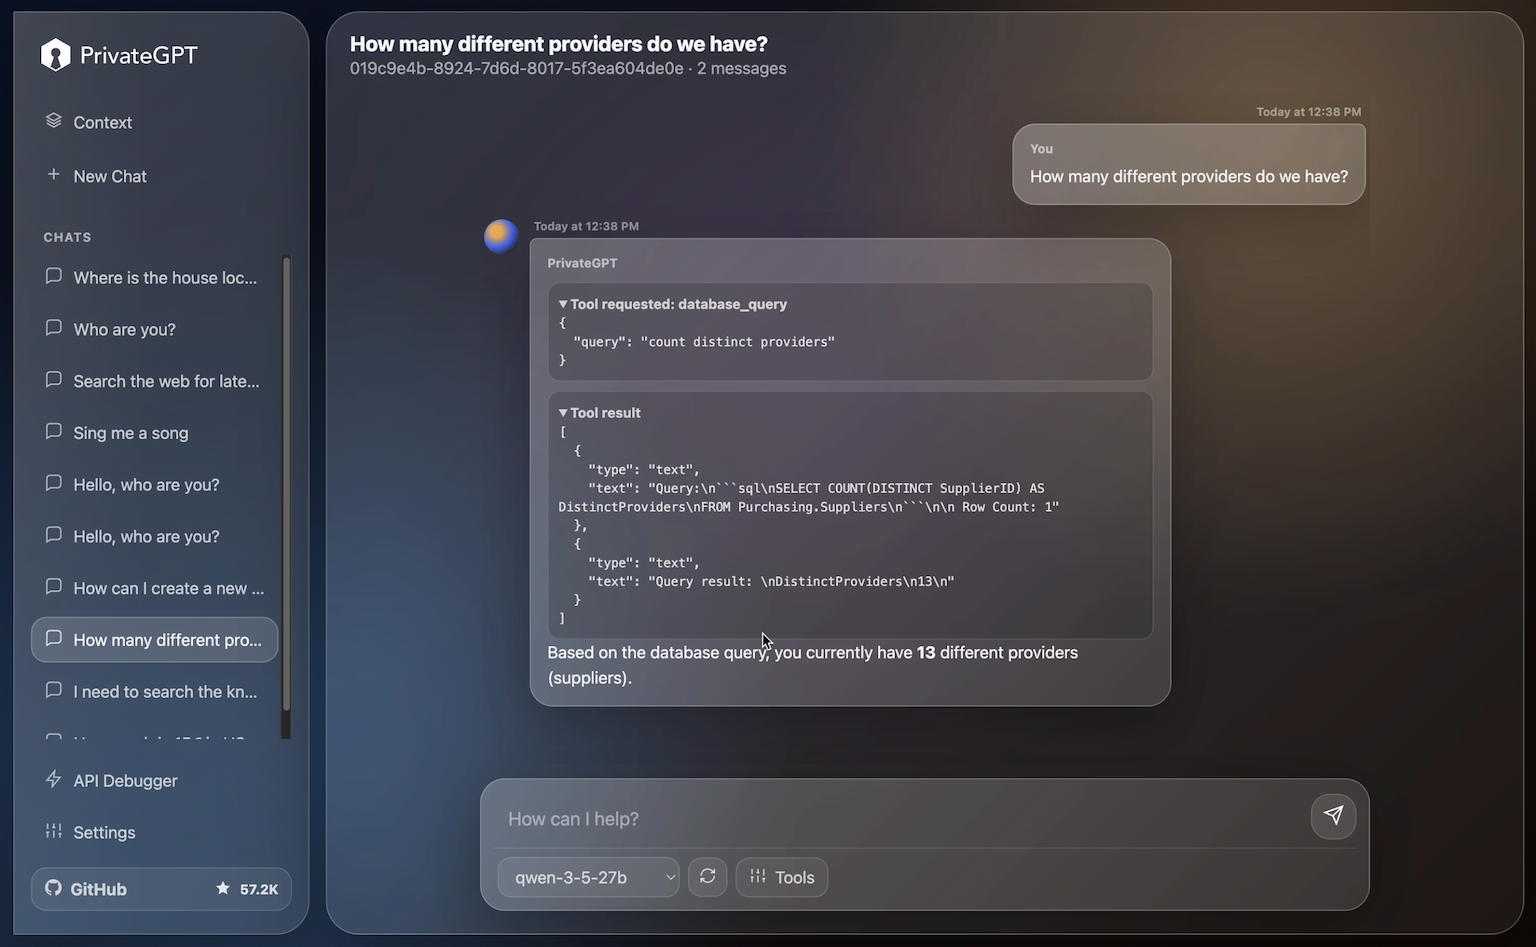
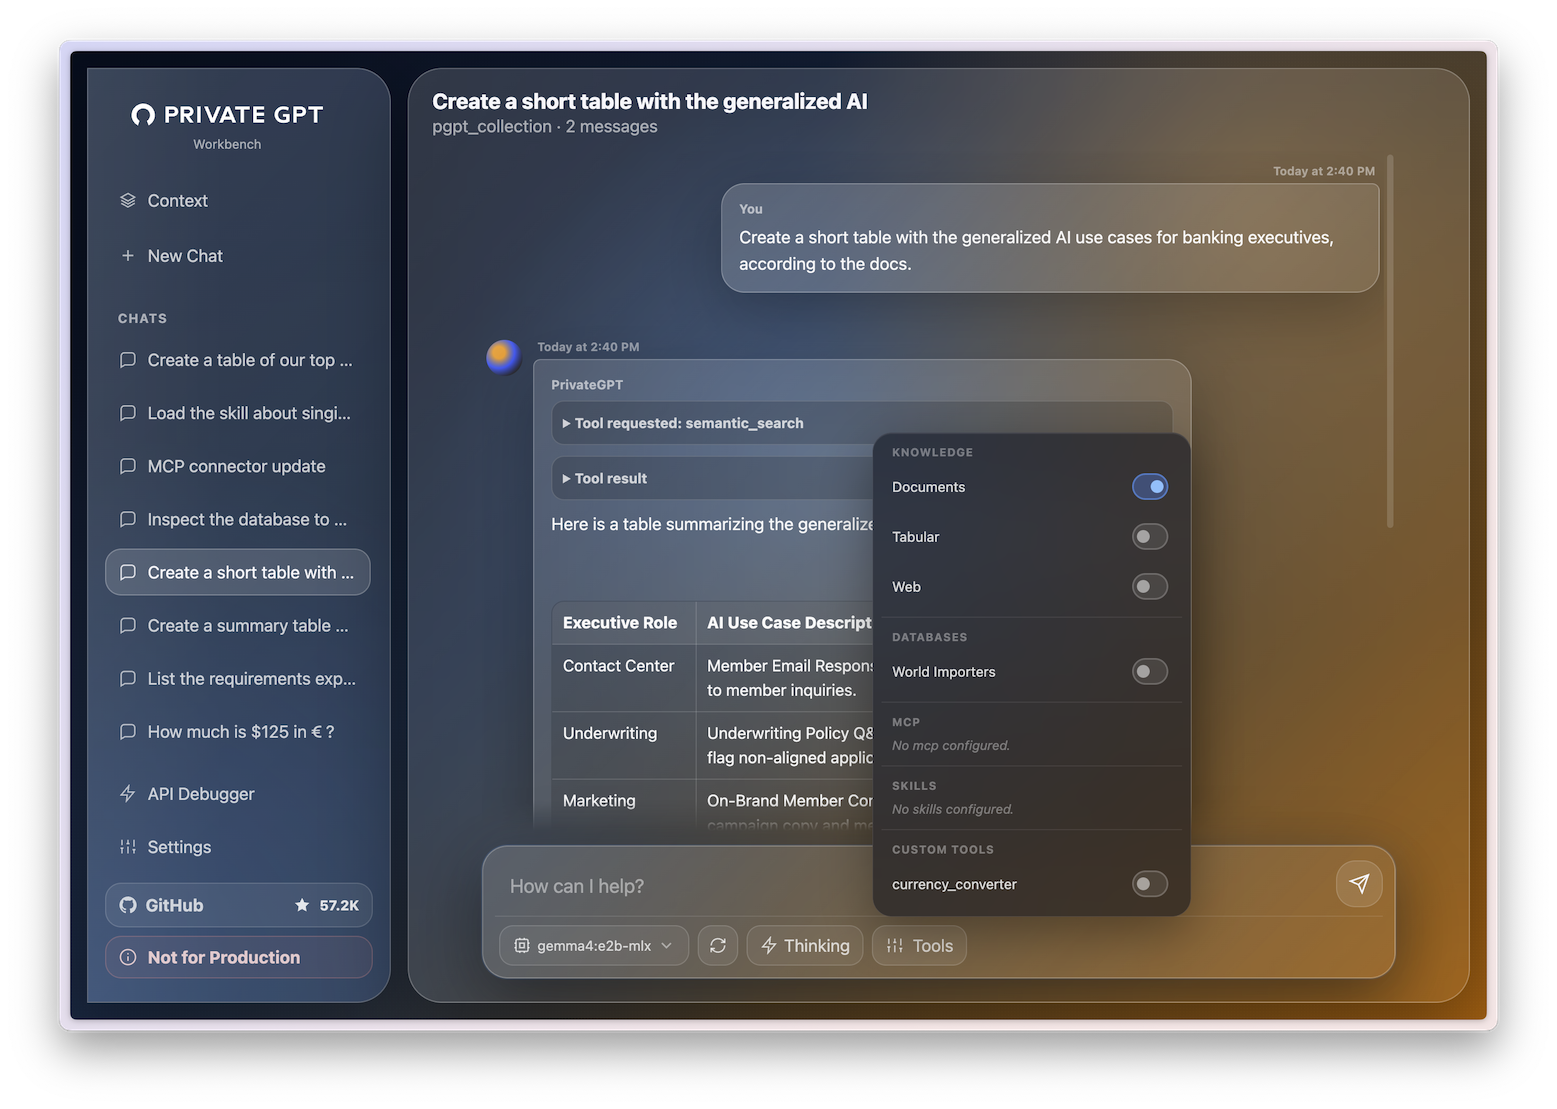
Main README update

Pull request: chore: main README update
# Description

README content update

diff --git a/README.md b/README.md
@@ -1,135 +1,161 @@
-# PrivateGPT
+![Banner image](./fern/docs/assets/privategpt_banner.png)
 
-<a href="https://trendshift.io/repositories/8691" target="_blank"><img src="https://trendshift.io/api/badge/repositories/8691" alt="zylon-ai%2Fprivate-gpt | Trendshift" style="width: 250px; height: 55px;" width="250" height="55"/></a>
+<div align="center">
+
+**PrivateGPT is the open-source API layer that turns local models into production AI applications.**
 
 [![Tests](https://github.com/zylon-ai/private-gpt/actions/workflows/tests.yml/badge.svg)](https://github.com/zylon-ai/private-gpt/actions/workflows/tests.yml?query=branch%3Amain)
 [![Website](https://img.shields.io/website?up_message=check%20it&down_message=down&url=https%3A%2F%2Fdocs.privategpt.dev%2F&label=Documentation)](https://docs.privategpt.dev/)
 [![Discord](https://img.shields.io/discord/1164200432894234644?logo=discord&label=PrivateGPT)](https://discord.gg/F8KCFeZbkx)
 [![X (formerly Twitter) Follow](https://img.shields.io/twitter/follow/ZylonPrivateGPT)](https://twitter.com/ZylonPrivateGPT)
 
-**PrivateGPT is the open-source Claude API-compatible layer for building private AI applications on top of any local or self-hosted model server.**
+<a href="https://trendshift.io/repositories/8691" target="_blank"><img src="https://trendshift.io/api/badge/repositories/8691" alt="zylon-ai%2Fprivate-gpt | Trendshift" style="width: 250px; height: 55px;" width="250" height="55"/></a>
 
-PrivateGPT turns local inference into a real application backend. It sits above any OpenAI-compatible model server and provides the higher-level capabilities modern AI products need: messages, model selection, file ingestion, retrieval with citations, tool use, database querying, CSV and tabular analysis, web search and extraction, MCP, skills, code execution, custom tools, token counting, embeddings, and async workflows.
+</div>
 
-The goal: bring the Claude-style application API to your own infrastructure, so developers can build private AI products without depending on cloud AI APIs.
+---
 
-## Why PrivateGPT?
+Running a model locally is only the first step. To build useful AI applications you need a set of higher-level building blocks. PrivateGPT provides that layer as an open-source API following the Claude API model — so you can build private AI products without rebuilding the same backend primitives from scratch, and without depending on cloud APIs.
 
-Running a model locally is only the first layer.
+Production-tested: [PrivateGPT powers Zylon](#privategpt-vs-zylon), the on-premise AI platform providing Private AI to enterprises across the globe.
 
-To build useful AI applications you need a set of high-level building blocks.
-PrivateGPT provides that layer as an open-source API, so you don't need to reinvent the wheel.
-
-- A standard messages API.
-- Files and artifact ingestion.
-- Retrieval with citations.
-- Built-in tools, mapping those offered by Claude API.
-- Custom tools support.
-- MCP connectors.
-- Structured access to databases and CSVs.
-- Web search and extraction.
-- Token counting, embeddings, and orchestration.
-
-PrivateGPT sits between your business logic and your inference server.
 
 ```text
 Your app / agent / workflow / UI
               |
         PrivateGPT API
               |
- OpenAI-compatible inference server
-              |
- Local or self-hosted models
+OpenAI-compatible inference server (Ollama, llama.cpp, vLLM, …)              
 ```
 
-## PrivateGPT vs Ollama, LM Studio, LocalAI, vLLM, llama.cpp
+> PrivateGPT does **not** run models itself. It connects to any OpenAI-compatible inference server via `OPENAI_API_BASE`. If it implements `/v1/chat/completions` and `/v1/models`, it works.
 
-PrivateGPT does not replace local inference providers. It complements them.
+PrivateGPT ships a built-in workbench UI for testing and demos, available at `/ui`. The API is the actual product.
 
-Projects like Ollama, LM Studio, LocalAI, vLLM, and llama.cpp make it possible to run and serve models locally. They answer the question:
+---
 
-> How do I run a model?
+## What PrivateGPT gives you
 
-PrivateGPT answers the next question:
+- Standard messages API (streaming, async, token counting)
+- File and artifact ingestion
+- Retrieval with citations and agentic RAG
+- Built-in tools mirroring the Claude API (web search, web fetch, code execution)
+- Custom tools and MCP connectors
+- Structured access to databases and CSVs
+- Embeddings and orchestration
 
-> How do I build a useful AI application on top of that model?
+---
 
-PrivateGPT sits above the model server and adds the application API: messages, files, retrieval, citations, tools, data analysis, MCP, skills, and custom tool execution.
+## Quickstart
 
-In short:
+> For Docker, full installation options, and model configuration see the [full Quickstart guide](https://docs.privategpt.dev/getting-started/quickstart).
 
-```text
-Ollama / LM Studio / LocalAI / vLLM / llama.cpp = local inference layer
-PrivateGPT                                      = local AI application API layer
+**Prerequisites:** You need a running OpenAI-compatible LLM server. [Ollama](https://docs.privategpt.dev/providers/ollama) is the easiest starting point.
+
+**1. Install PrivateGPT**
+
+```bash
+# macOS
+brew tap zylon-ai/tap
+brew install private-gpt
 ```
 
-Use both together: run your model with the inference server you prefer, then use PrivateGPT as the Claude-style backend for your application.
+```bash
+# Linux
+curl -LsSf https://astral.sh/uv/install.sh | sh
 
-## PrivateGPT vs Onyx, Open WebUI
-
-Onyx and Open WebUI are valuable projects, but they are solving a different problem.
-
-Onyx is an open-source AI platform focused on chat and enterprise search across organizational knowledge, documents, apps, and people. Open WebUI is a self-hosted AI interface for running and interacting with AI on your own infrastructure. Both are primarily app-first experiences.
-
-PrivateGPT is API-first.
-
-It is not trying to be the final workspace, enterprise search product, or ChatGPT-style interface. Instead, PrivateGPT gives developers the standardized local backend underneath those products: a Claude API-compatible layer for messages, files, retrieval, citations, tools, data analysis, MCP, skills, and custom tools.
-
-Put differently:
-
-```text
-Onyx / Open WebUI = self-hosted AI applications
-PrivateGPT       = API layer for building self-hosted AI applications
+uv tool install --python 3.11 \
+  --find-links https://wheels.privategpt.dev/packages/ \
+  "private-gpt[core]"
 ```
 
-The lightweight UI included with PrivateGPT exists to help you test the API, demonstrate the value quickly, and explore the available capabilities. The API is the actual product.
+```powershell
+# Windows
+powershell -ExecutionPolicy ByPass -c "irm https://astral.sh/uv/install.ps1 | iex"
 
-## A Platform For Developers
+uv tool install --python 3.11 `
+  --find-links https://wheels.privategpt.dev/packages/ `
+  "private-gpt[core]"
+```
 
-PrivateGPT is built for developers who want to create private AI applications without rebuilding the same backend primitives from scratch.
+**2. Start your LLM server**
 
-With PrivateGPT, you can build:
+```bash
+# Example with Ollama
+ollama pull qwen3.5:35b         # LLM (~24 GB)
+ollama pull mxbai-embed-large   # Embeddings (~670 MB)
+ollama serve
+```
 
-- Local document assistants.
-- Internal knowledge-base assistants.
-- Claude-compatible AI features inside existing applications.
-- Agents with built-in and custom tools.
-- Database and CSV analysis workflows.
-- Retrieval systems with citations.
-- MCP-powered local AI systems.
-- AI applications that run inside your own infrastructure.
+**3. Run PrivateGPT**
 
-PrivateGPT is intentionally backend-first. You bring your own UI, product workflow, deployment model, and inference provider.
+```bash
+# macOS / Linux
+OPENAI_API_BASE=http://localhost:<llm-port>/v1 \
+  OPENAI_EMBEDDING_API_BASE=http://localhost:<embedding-port>/v1 \
+  private-gpt serve
+```
 
-## Test The API In The Workbench UI
+```powershell
+# Windows (PowerShell)
+$env:OPENAI_API_BASE = "http://localhost:<llm-port>/v1"
+$env:OPENAI_EMBEDDING_API_BASE = "http://localhost:<embedding-port>/v1"
+private-gpt serve
+```
 
-PrivateGPT includes a lightweight out-of-the-box UI so you can start interacting with the API in minutes.
+**4. Open the UI**
+
+Go to [http://localhost:8080/ui](http://localhost:8080/ui). The API is at `http://localhost:8080` and follows the [Anthropic API](https://docs.privategpt.dev/api-reference/api-reference) spec.
+
+<img src="./fern/docs/assets/ui.png"/>
 
 The UI is useful for:
 
 - Sending messages.
-- Selecting models from `/v1/models`.
+- Selecting models from /v1/models.
 - Uploading documents.
 - Testing retrieval with citations.
 - Enabling tools per chat.
 - Configuring databases, MCP connectors, skills, and custom tools.
-- Inspecting requests and responses through the API Debugger.
+- Inspecting requests and responses through the API Debugger. 
 
 This UI is a demonstrator, not the core product. Developers are expected to build their own applications on top of the API. That said, the UI is intentionally polished enough for demos, videos, internal pilots, and quick local usage.
 
-The current UI lives in:
+---
 
-```text
-./ui/index.html
-```
+## Integrations
 
-## PrivateGPT vs Claude API Status
+| | | |
+|:-------------------------:|:-------------------------:|:-------------------------:|
+|[![claude cowork](./fern/docs/assets/claude_cowork_privategpt.png)](./fern/docs/assets/claude_cowork_privategpt.png)<br/>**Claude Desktop / Cowork**|[![ms excel claude](./fern/docs/assets/ms_excel_claude_privategpt.png)](./fern/docs/assets/ms_excel_claude_privategpt.png)<br/>**Microsoft Excel Claude add-in**|[![ms word claude](./fern/docs/assets/ms_word_claude_privategpt.png)](./fern/docs/assets/ms_word_claude_privategpt.png)<br/>**Microsoft Word Claude add-in**|
+|[![n8n](./fern/docs/assets/n8n_privategpt.png)](./fern/docs/assets/n8n_privategpt.png)<br/>**n8n**|[![opencode](./fern/docs/assets/opencode_privategpt.png)](./fern/docs/assets/opencode_privategpt.png)<br/>**OpenCode**|[![privategpt workbench](./fern/docs/assets/privategpt_workbench.png)](./fern/docs/assets/privategpt_workbench.png)<br/>**PrivateGPT Workbench**|
 
-PrivateGPT follows the Claude API model because Claude has become the clearest reference for modern AI application APIs: messages, tools, files, citations, skills, MCP, and structured workflows.
+PrivateGPT works natively as the local backend for the tools developers and end users already use.
 
-The goal is to support Claude API concepts as closely as possible while adapting them to local and self-hosted infrastructure. Some functionality is intentionally exposed through PrivateGPT-specific endpoints where that makes the local implementation clearer, especially around ingestion and artifact management.
+| Integration Guide | What it enables |
+|---|---|
+| **[Claude Code](https://docs.privategpt.dev/integrations/claude-code)** | Use your local models as the backend for agentic coding in the terminal |
+| **[Claude Desktop / Cowork](https://docs.privategpt.dev/integrations/claude-desktop)** | Connect the Claude desktop app and Cowork to your private models |
+| **[Claude for Microsoft 365](https://docs.privategpt.dev/integrations/claude-office)** | Run private AI inside Word, Excel, Outlook, and PowerPoint |
+| **[OpenCode](https://docs.privategpt.dev/integrations/opencode)** | Local AI coding assistant in the terminal |
 
-Compatibility snapshot:
+
+Any tool that works with a local OpenAI-compatible provider will also work with PrivateGPT. The list below is non-exhaustive.
+
+| Tool | Link |
+|---|---|
+| n8n | [n8n.io](https://n8n.io) |
+| OpenClaw | [openclaw.ai](https://openclaw.ai) |
+| Hermes Agent | [hermes-agent.dev](https://hermes-agent.dev) |
+| VS Code | [code.visualstudio.com](https://code.visualstudio.com) |
+| Cline | [cline.bot](https://cline.bot) |
+
+
+---
+
+## Claude API compatibility
+
+PrivateGPT follows the Claude API as the reference for modern AI application APIs. The goal is full coverage where it makes sense for a local, open-source layer.
 
 | Area | Capability | Claude API | PrivateGPT |
 |---|---|:---:|:---:|
@@ -151,48 +177,102 @@ Compatibility snapshot:
 | Data | CSV / tabular analysis | Via tools / code | ✅ built-in |
 | Agents | MCP in the API | ✅ | ✅ |
 | Agents | Remote MCP servers | ✅ | ✅ |
-| Agents | Skills | ✅ | ⚠️ basic |
-| Output | Structured outputs | ✅ | ✅ inference-dependent|
+| Agents | Skills | ✅ | ⚙️ basic |
+| Output | Structured outputs | ✅ | ✅ inference-dependent |
 | Models | Vision | ✅ | ✅ model-dependent |
 | Optimization | Prompt caching | ✅ | ❌ |
 | Reasoning | Extended thinking | ✅ | ✅ |
 | Platform | Token-based auth | ✅ | ✅ |
 | Platform | OAuth / organizations | ✅ | ❌ |
 
-Legend:
+✅ Supported · ⚙️ Partial / in progress · ❌ Not supported
 
-- ✅ Supported.
-- ⚠️ Partially supported, model-dependent, or in active development.
-- ❌ Not currently supported.
+Contributions are especially welcome in ⚙️ areas.
 
-The ambition is full Claude API feature coverage where it makes sense for a local, open-source application layer. Contributions are especially welcome in the areas marked as in progress.
+---
 
-## PrivateGPT vs Zylon.ai
+## Why PrivateGPT? A brief history
 
-PrivateGPT is maintained by the team behind Zylon.ai.
+PrivateGPT started as a proof of concept in 2023: a script that let you chat with your documents, fully offline, with no data leaving your machine. It went viral on GitHub, crossed 50K stars, and became one of the most-watched AI repos of that year.
 
-PrivateGPT is the open-source application API layer.
-Zylon is the complete, enterprise-ready on-prem AI platform built around it.
+That early version made one thing clear: there was serious demand for private, local AI that worked without cloud dependencies.
 
-PrivateGPT gives developers the Claude API-compatible backend primitives: messages, ingestion, tools, retrieval, citations, database access, tabular analysis, MCP, skills, and custom tools.
+PrivateGPT 1.0 is the evolution of that idea — rebuilt from the ground up as a proper API layer for private AI applications. 
 
-Zylon turns that layer into a complete production platform for regulated organizations. It adds the pieces enterprises need to deploy and operate private AI at scale:
+<!-- Read the [PrivateGPT 1.0 launch post](https://blog.zylon.ai/privategpt-launch) for context on where it started and why. -->
 
-- Integrated inference server.
-- Kubernetes deployment package.
-- API gateway and developer platform.
-- Workspace application for non-technical end users.
+<a href="https://www.star-history.com/?repos=zylon-ai%2Fprivate-gpt&type=date&legend=top-left">
+ <picture>
+   <source media="(prefers-color-scheme: dark)" srcset="https://api.star-history.com/chart?repos=zylon-ai/private-gpt&type=date&theme=dark&legend=top-left" />
+   <source media="(prefers-color-scheme: light)" srcset="https://api.star-history.com/chart?repos=zylon-ai/private-gpt&type=date&legend=top-left" />
+   <img alt="Star History Chart" src="https://api.star-history.com/chart?repos=zylon-ai/private-gpt&type=date&legend=top-left" />
+ </picture>
+</a>
+
+---
+
+## How PrivateGPT compares
+
+### vs Ollama, LM Studio, LocalAI, vLLM, llama.cpp
+
+These projects make it possible to run and serve models locally. They answer: *how do I run a model?*
+
+PrivateGPT answers the next question: *how do I build a useful AI application on top of that model?*
+
+```text
+Ollama / LM Studio / LocalAI / vLLM / llama.cpp  =  local inference layer
+PrivateGPT                                        =  local AI application API layer
+```
+
+Use them together. Run your model with whichever inference server you prefer, then point PrivateGPT at it.
+
+### vs Onyx, Open WebUI
+
+Both are valuable, but they are app-first experiences focused on chat and enterprise search. PrivateGPT is API-first. It provides the standardized local backend underneath those products — not the final product itself.
+
+```text
+Onyx / Open WebUI  =  self-hosted AI applications
+PrivateGPT         =  API layer for building self-hosted AI applications
+```
+
+---
+
+
+## PrivateGPT vs Zylon
+
+<a href="https://www.zylon.ai/" target="_blank"><img src="./fern/docs/assets/zylon_banner.png"/></a>
+
+PrivateGPT is maintained by the team at [Zylon](https://zylon.ai/).
+
+**PrivateGPT** is the open-source application API layer: messages, ingestion, tools, retrieval, citations, database access, tabular analysis, MCP, skills, and custom tools.
+
+**Zylon** is the end-to-end AI Infrastructure orchestrating the hardware and software layers into a complete production platform for regulated organizations. On top of PrivateGPT, Zylon adds:
+
+- Integrated inference server based on NVIDIA Triton + vLLM to run open-weight models.
+- Concurrency, batch processing and load balancing capabilities to operate at scale.
+- Kubernetes self-contained deployment with 20+ production services packaged and supported.
 - CLI for installation, updates, model selection, and platform configuration.
-- LDAP integration for user management.
-- Telemetry and operational monitoring.
+- API gateway for governance and developer platform.
+- Workspace application for non-technical end users.
+- LDAP/Active Directory integration and RBAC user management.
+- Telemetry, observability and operational monitoring.
 - SIEM audit logs for compliance.
-- SharePoint, Confluence, FTP, and Samba document source integrations.
-- Disconnected operation without external cloud dependencies.
-- More than 20 production services packaged together.
+- SharePoint, Confluence, FTP, and Samba connectors.
+- Disconnected (air-gapped) operation without external cloud dependencies.
 - Integrated n8n Community Edition for workflow automation.
 
-Use PrivateGPT if you want the open-source local AI application layer and developer API.
+Use **PrivateGPT** if you want the open-source local AI application layer and developer API.
 
-Use Zylon if you need the full enterprise platform around it: deployment, governance, operations, user management, integrations, auditability, and support.
+Use **Zylon** if you need the full enterprise AI infrastructure around it: deployment, governance, operations, user management, integrations, auditability, and support.
 
-Learn more at [zylon.ai](https://zylon.ai) or [book a demo](https://cal.com/zylon/demo?source=privategptreadme).
+[Learn more at zylon.ai](https://zylon.ai) · [Book a demo](https://cal.com/zylon/demo?source=privategptreadme)
+
+---
+
+## Community and contributing
+
+- [Discord](https://discord.gg/F8KCFeZbkx) — questions, show-and-tell, and release discussions
+- [Documentation](https://docs.privategpt.dev/) — full reference, guides, and API docs
+- [Issues](https://github.com/zylon-ai/private-gpt/issues) — bug reports and feature requests
+
+Pull requests are welcome. 